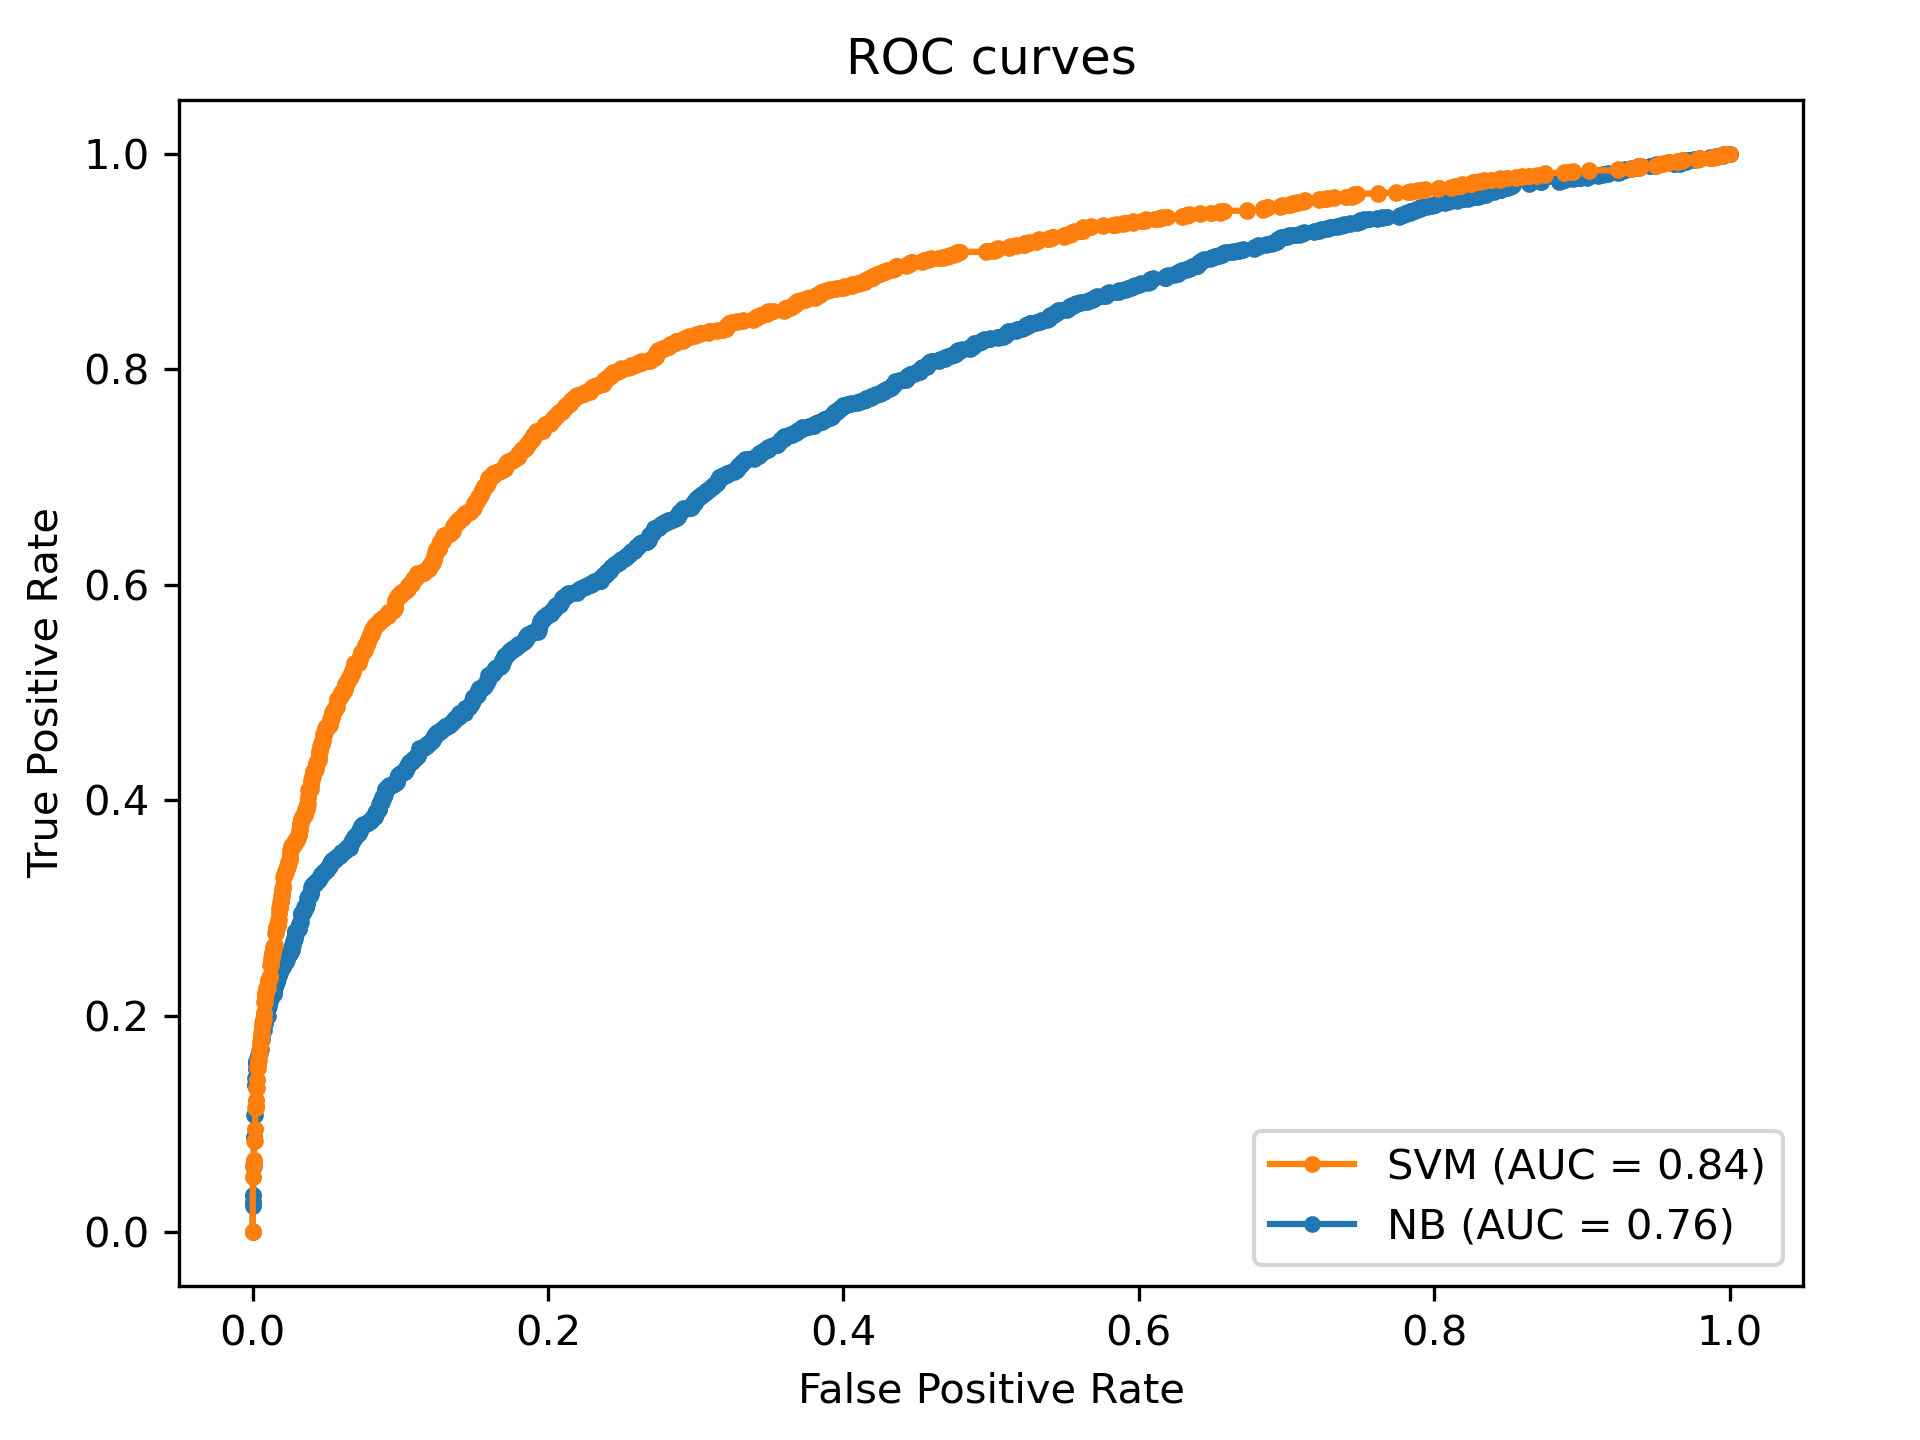
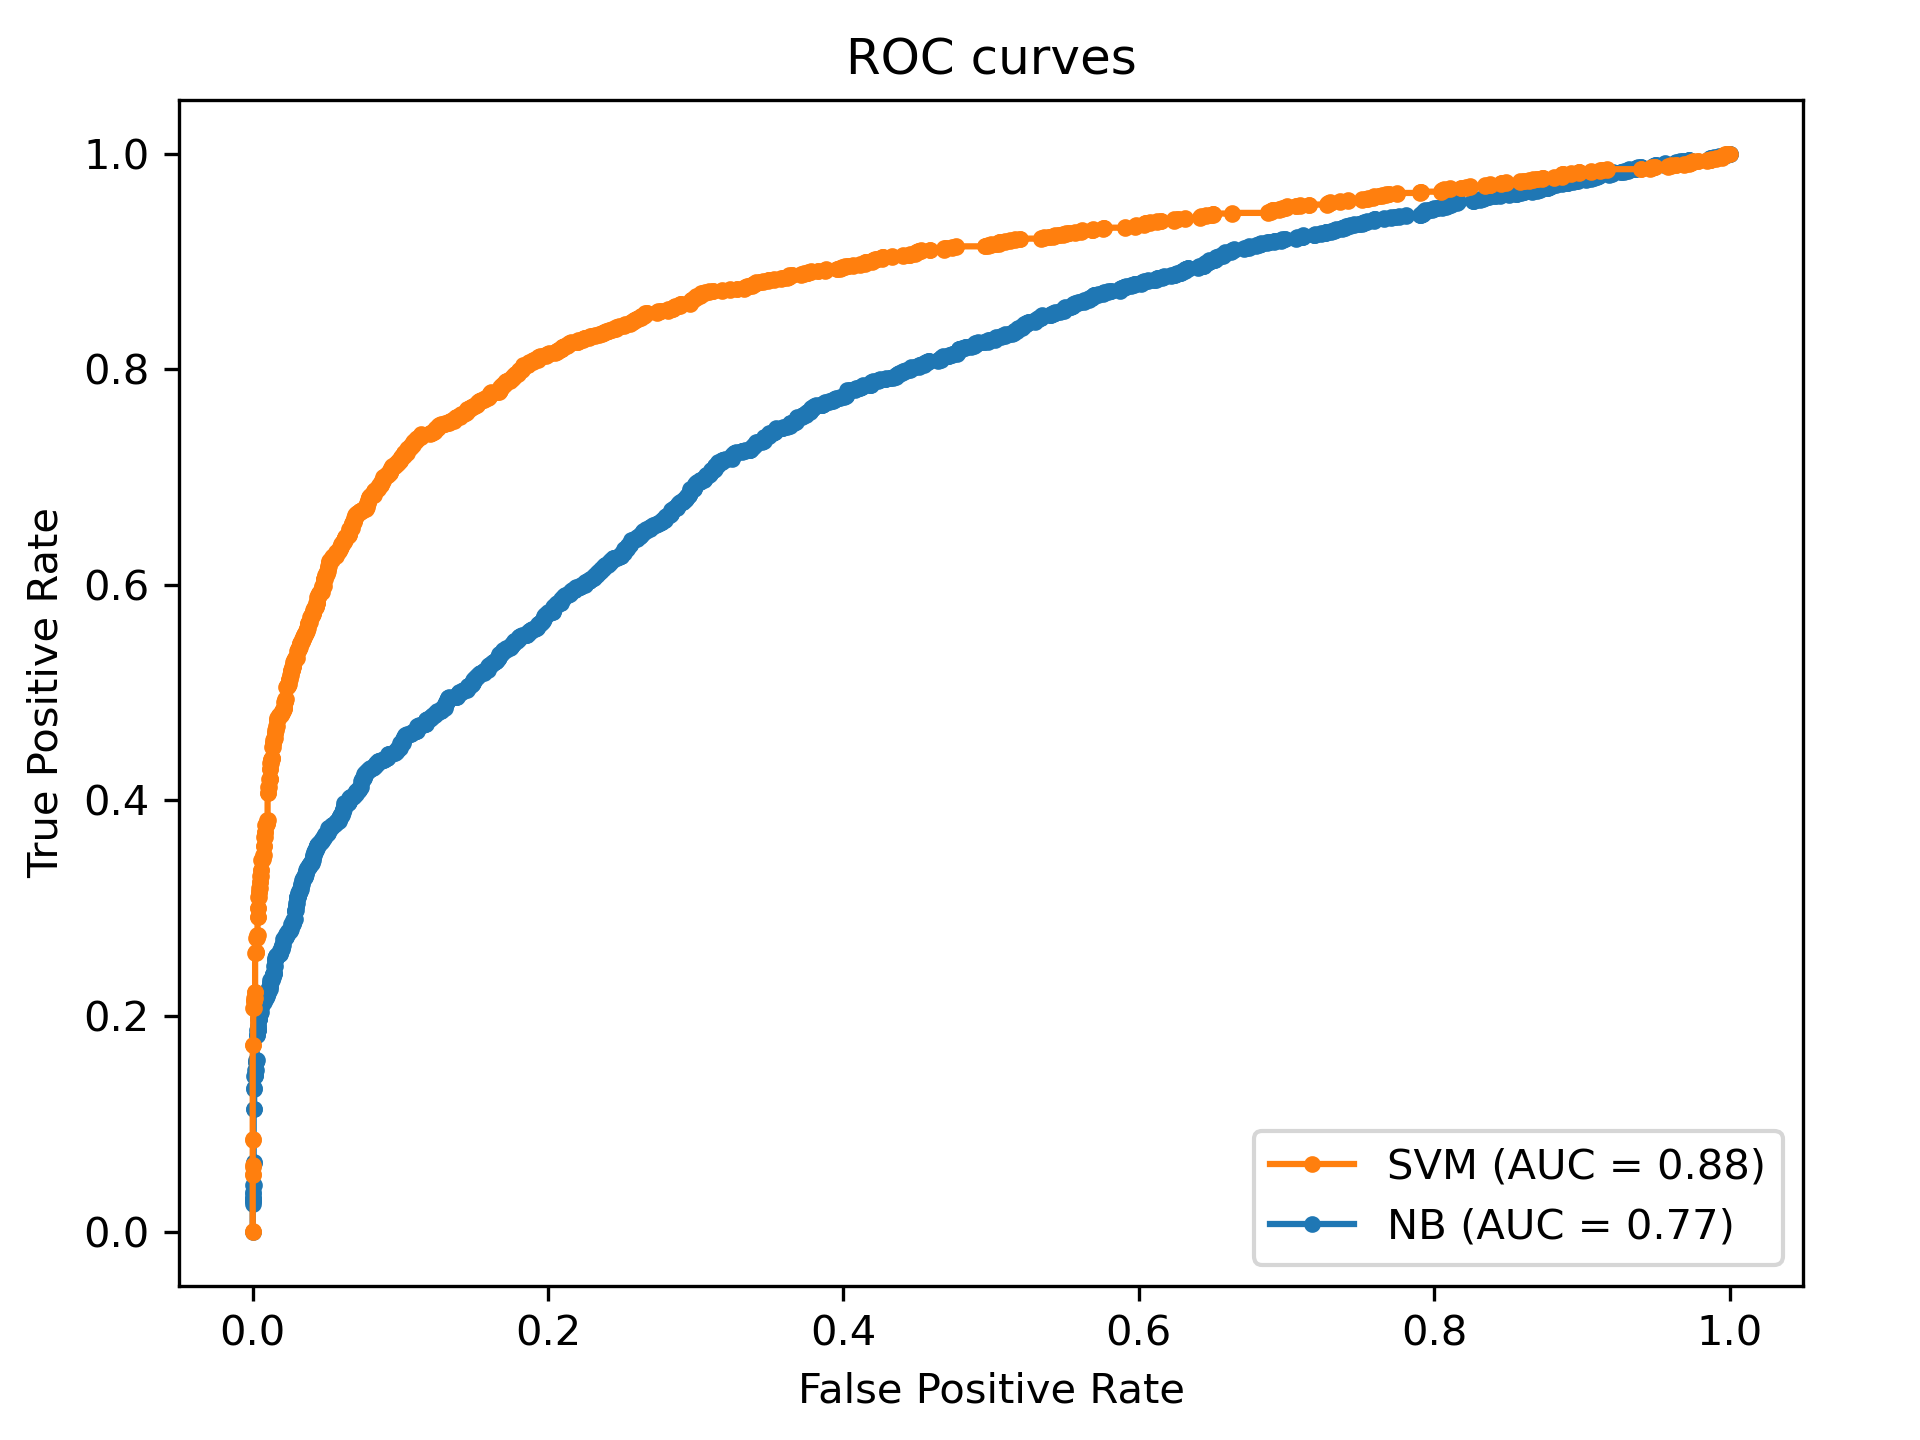
changed c to 60 in svm

diff --git a/main.py b/main.py
@@ -87,7 +87,7 @@ def run_SVM(X,y):
     # gamma = -1, hadron = 1
     # https://scikit-learn.org/stable/modules/generated/sklearn.svm.SVC.html#sklearn.svm.SVC
     # https://scikit-learn.org/stable/modules/svm.html#svm-kernels
-    clf = svm.SVC(C=1, kernel='rbf', gamma='scale')
+    clf = svm.SVC(C=60, kernel='rbf', gamma='scale')
     clf.fit(X, y)
     return clf
 
